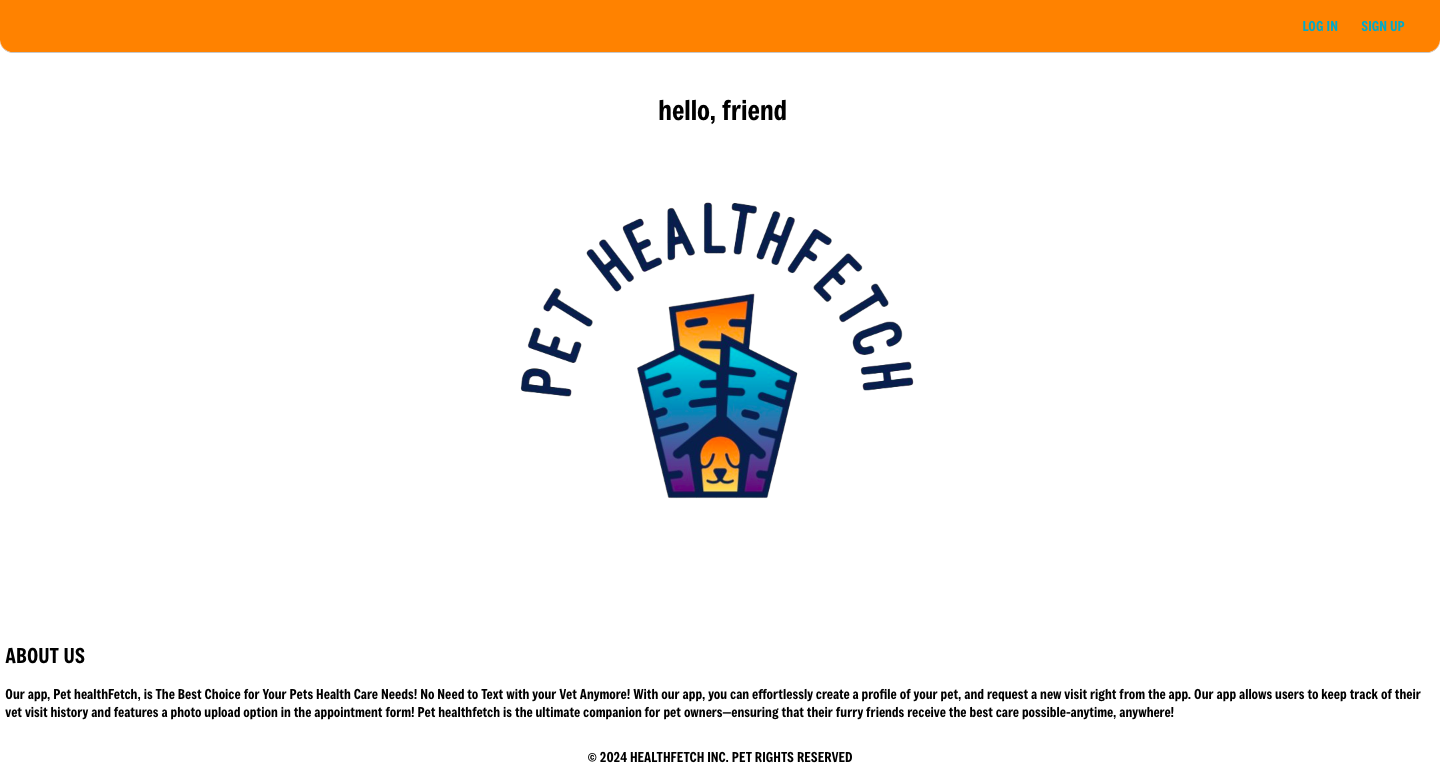
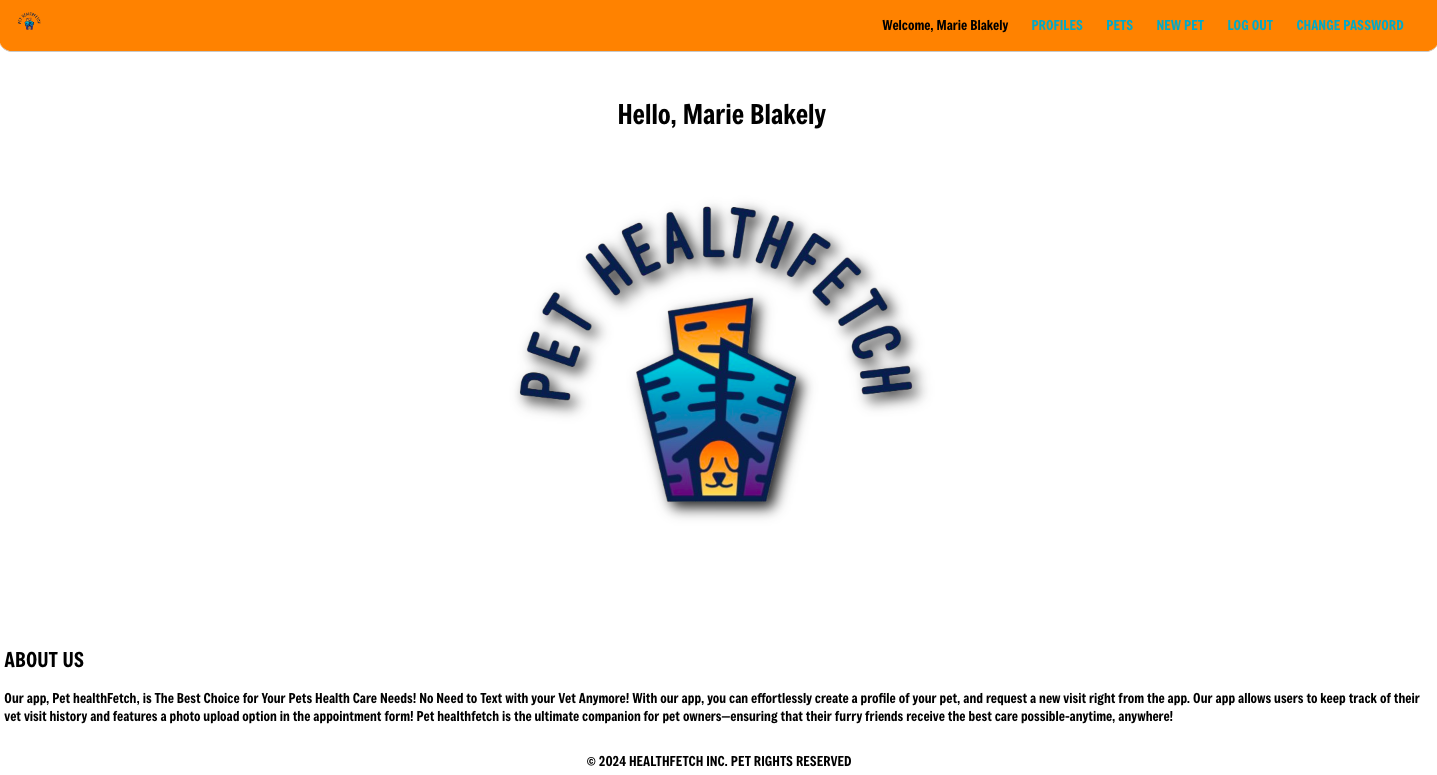
update readme to include link to contributor github, link to backend github repo

diff --git a/index.html b/index.html
@@ -6,6 +6,9 @@
     <link rel="preconnect" href="https://fonts.googleapis.com">
     <link rel="preconnect" href="https://fonts.gstatic.com" crossorigin>
     <link href="https://fonts.googleapis.com/css2?family=Freeman&family=Montserrat:ital,wght@0,100..900;1,100..900&display=swap" rel="stylesheet">
+    <link id="favicon" rel="icon" href="/assets/images/logo.png" 
+    type="image/png"
+    sizes="32x32">
     <meta name="viewport" content="width=device-width, initial-scale=1.0" />
     <title>🚀</title>
   </head>

diff --git a/src/pages/Landing/Landing.jsx b/src/pages/Landing/Landing.jsx
@@ -7,7 +7,7 @@ const Landing = ({ user }) => {
   return (
     <>
     <main className={styles.container}>
-      <h1>hello, {user ? user.name : 'friend'}</h1>
+      <h1>Hello, {user ? user.name : 'friend'}</h1>
       <section className={styles.splash}>
           <img src={logo} alt="A cute pet" />
         </section>

diff --git a/README.md b/README.md
@@ -1,7 +1,7 @@
 
 
 ![app screenshot](src/assets/images/app.png)
-![app screenshot](public/assets/images/app.png)
+
 # Pet HealthFetch
 
 
@@ -11,7 +11,9 @@
 ## Pet HealthFetch:
 
 ### [Pet HealthFetch](https://pet-healthfetch.netlify.app/)
+### [GitHub Back-End Repository](https://github.com/marieblakely/pet-healthfetch.git)
 
+### [Contributors](https://github.com/dterceroparker)
 
 ### Description:
 
@@ -45,9 +47,10 @@ Technologies Used:
 
 Attributes:
 * [Favicon Image](https://www.realsimple.com/thmb/xLA4latZR6rEXcB0S2fYPs7o7ug=/750x0/filters:no_upscale():max_bytes(150000):strip_icc():format(webp)/travel-agent-GettyImages-1211719627-4b924cc562fe4ab4b137b6e4ea9d401d.jpg) 
-* [Cinzel Google Font](https://fonts.google.com/selection/embed)
-* [Unsplash](https://unsplash.com/photos/flat-lay-photography-of-camera-book-and-bag-qyAka7W5uMY)
-* [Animate.css](https://animate.style/)
+* [Freeman Google Font](https://fonts.google.com/selection/embed)
+* [Coolors.co](https://coolors.co/gradient/ebf4f5-b5c6e0)
+* [Brandcrowd.com/logo-maker](https://www.brandcrowd.com/logo-maker)
+
 
 
 
